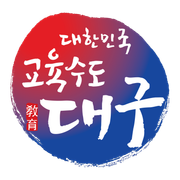
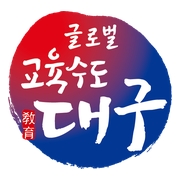
chore(brand): 교육수도 대구 새 로고로 교체 (헤더·파비콘·터치 아이콘)

Changed region(s): [[0.0278, 0.0556, 0.9722, 0.9444], [0.1111, 0.3333, 0.1389, 0.3611]]

diff --git a/docs/STATUS.md b/docs/STATUS.md
@@ -1,6 +1,6 @@
 # 진행 현황 (ai-dt.net)
 
-최종 갱신: 2026-08-18
+최종 갱신: 2026-11-17
 
 ## 남은 작업 (핸드오프)
 
@@ -231,3 +231,6 @@
 
 ## 알려진 참고사항
 - 로컬 스크린샷 도구는 Pretendard 동적 서브셋(파일 ~100개)의 networkidle 대기로 간헐 지연됨 — 사이트 결함 아님. 실제 브라우저는 정상.
+
+## 2026-11-17 - 교육청 로고 교체
+- 새 '글로벌 교육수도 대구' 로고로 교체: `src/assets/logo-512.webp`(헤더·푸터·히어로), `public/favicon.png`, `public/apple-touch-icon.png`. 배포 전.
